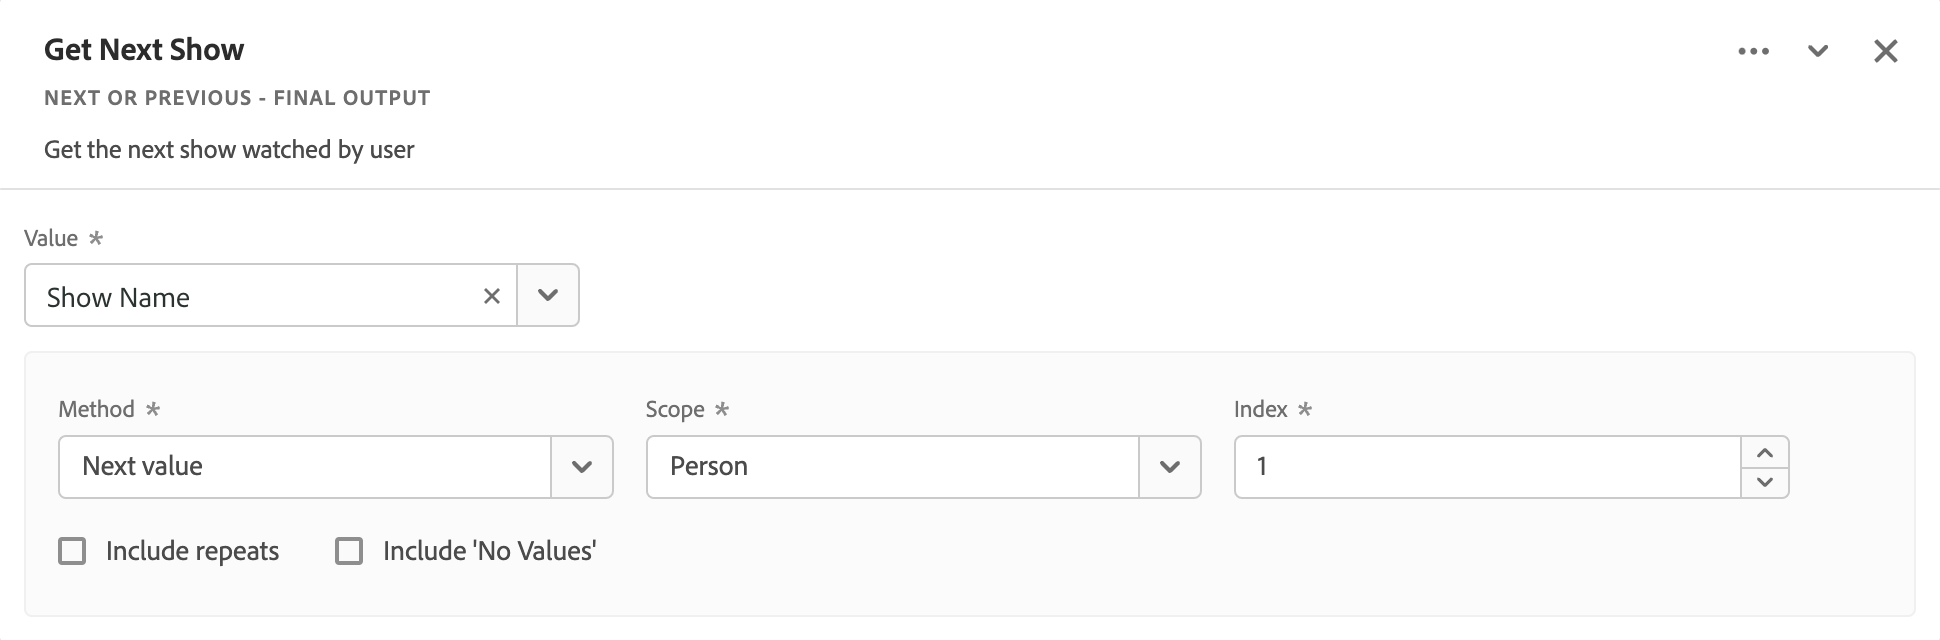
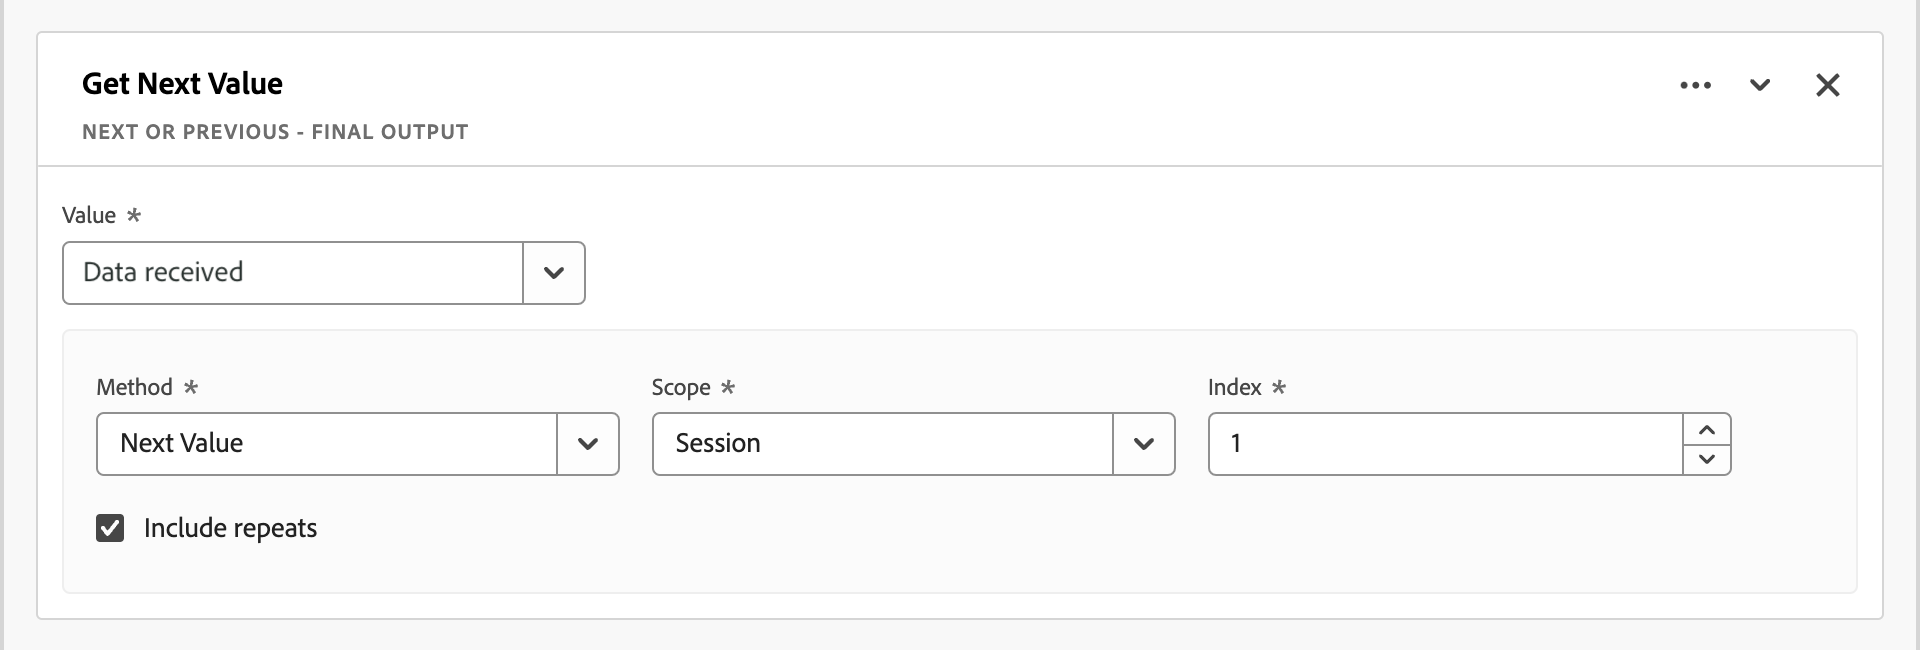
Updates

diff --git a/help/data-views/derived-fields/derived-fields.md b/help/data-views/derived-fields/derived-fields.md
@@ -898,118 +898,11 @@ Takes a field as input and resolves the next or previous value for that field wi
 
 {style="table-layout:auto"}
 
-## Use case 1 {#prevornext-uc1}
+## Use case {#prevornext-uc1}
 
-You would like to understand what the most common **next** show someone did watch and populate that into a new component called `Next Show Name`. You currently collect `Show Name` in a dimension.
+You would like to understand what the **next** or **previous** value is of the data that you receive, taken into account repeat values.
 
-### Data before {#prevornext-uc1-databefore}
-
-| CustomerID | Show Name | Watch Event |
-|---|---|---:|
-| ABC123 | The Book of Boba Fett | 1 |
-| ABC123 |  Obi-Wan | 1 |
-| ABC123 | DuckTales | 1 |
-| ABC456 |  DuckTales | 1 |
-| ABC456 | Hawkeye | 1 |
-| ABC456 |  The Book of Boba Fett | 1 |
-| ABC789 | Hawkeye | 1 |
-| ABC789 | Wandavision | 1 |
-| ABC789 | Loki | 1 |
-
-{style="table-layout:auto"}
-
-| Next Show | Events |
-|---|---|
-| Loki | 1 |
-| Hawkeye | 1 |
-| The Book of Boba Fett | 1 |
-| Obi-Wan | 1 |
-| DuckTales | 1 |
-| WandaVision | 1 |
-
-{style="table-layout:auto"}
-
-### Derived field {#prevnext-uc1-derivedfield}
-
-You define a `Next Show Name` derived field. You use the [!UICONTROL NEXT OR PREVIOUS] function to define a rule that selects the [!UICONTROL Show Name] field, select [!UICONTROL Next value] as [!UICONTROL Method], [!UICONTROL Person] as Scope and sets value of [!UICONTROL Index] to `1`.
-
-![Screenshot of the Merge Fields rule](assets/prevnext-next.png)
-
-### Data after {#prevnext-uc1-dataafter}
-
-| CustomerID | Show Name | Watch Event | Next Show Name |
-|---|---|--:|---|
-| ABC123  |  The Book of Boba Fett |   1  |  Obi-Wan |
-| ABC123 |   Obi-Wan  |  1  |  DuckTales |
-| ABC123  |  DuckTales  |  1    | |
-| ABC456 |   DuckTales  |  1   | Hawkeye|
-| ABC456 |   Hawkeye  |  1  |  The Book of Boba Fett |
-| ABC456  |  The Book of Boba Fett  |  1    | |
-| ABC789  |  Hawkeye  |  1 |  WandaVision |
-| ABC789 |   Wandavision  |  1  |  Loki |
-| ABC789  |  Loki  |  1    | |
-
-{style="table-layout:auto"}
-
-## Use case 2 {#prevornext-uc2}
-
-You would like to understand what the most common **previous** show someone did watch and populate that into a new component called `Previous Show Name`. You currently collect `Show Name` in a dimension.
-
-### Data before {#prevornext-uc2-databefore}
-
-| CustomerID | Show Name | Watch Event |
-|---|---|---:|
-| ABC123 | The Book of Boba Fett | 1 |
-| ABC123 |  Obi-Wan | 1 |
-| ABC123 | DuckTales | 1 |
-| ABC456 |  DuckTales | 1 |
-| ABC456 | Hawkeye | 1 |
-| ABC456 |  The Book of Boba Fett | 1 |
-| ABC789 | Hawkeye | 1 |
-| ABC789 | Wandavision | 1 |
-| ABC789 | Loki | 1 |
-
-{style="table-layout:auto"}
-
-| Previous Show | Events |
-|---|---|
-| Hawkeye | 2 |
-| The Book of Boba Fett | 1 |
-| Obi-Wan | 1 |
-| DuckTales | 1 |
-| WandaVision | 1 |
-
-{style="table-layout:auto"}
-
-### Derived field {#prevnext-uc2-derivedfield}
-
-You define a `Previous Show Name` derived field. You use the [!UICONTROL NEXT OR PREVIOUS] function to define a rule that selects the [!UICONTROL Show Name] field, selects [!UICONTROL Previous value] as [!UICONTROL Method], [!UICONTROL Person] as [!UICONTROL Scope], and sets the value of [!UICONTROL Index] to `1`.
-
-![Screenshot of the Merge Fields rule](assets/prevnext-prev.png)
-
-### Data after {#prevnext-uc2-dataafter}
-
-
-| CustomerID | Show Name | Watch Event | Previous Show |
-|---|---|--:|---|
-|ABC123   | The Book of Boba Fett  |  1    | |
-| ABC123   | Obi-Wan  |  1   | The Book of Boba Fett |
-| ABC123 |   DuckTales  |  1   | Obi-Wan |
-| ABC456  |  DuckTales |   1    | |
-| ABC456  |  Hawkeye  |  1  |  DuckTales |
-| ABC456   | The Book of Boba Fett |   1  |  Hawkeye |
-| ABC789 |   Hawkeye  |  1    | |
-| ABC789  |  WandaVision |   1 |   Hawkeye |
-| ABC789  |  Loki |   1  |  WandaVision |
-
-{style="table-layout:auto"}
-
-
-## More information {#prevnext-moreinfo}
-
-You can only select fields that belong to the Visit or Event table.
-
-Include repeats determine how to handle repeating values for previous or next. See following example tables.
+### Data {#prevornext-uc1-databefore}
 
 **Example 1 - Handling include repeats**
 
@@ -1034,14 +927,30 @@ Include repeats determine how to handle repeating values for previous or next. S
 | home | home | search | *No value* | *No value* |
 | home | home | search | home | *No value* |
 | home | search | search | home | *No value* |
-| search | search | product details | home | home |
-| | search | search | search | search |
+| search | search | product detail | home | home |
+| &nbsp; | &nbsp; | &nbsp; | &nbsp; | &nbsp; |
 | search | search | product detail | search | home |
 | search | product detail | product detail | search | home |
 | product detail | *No value* | *No value* | search | search |
-| | *No value* | *No value* | product detail | product detail | 
+| &nbsp; | &nbsp; | &nbsp; | &nbsp; | &nbsp; |
 
 {style="table-layout:auto"}
+
+### Derived field {#prevnext-uc1-derivedfield}
+
+You define a `Next Value` or `Previous value` derived field. You use the [!UICONTROL NEXT OR PREVIOUS] function to define a rule that selects the [!UICONTROL Data received] field, select [!UICONTROL Next value] or [!UICONTROL Previous value] as [!UICONTROL Method], [!UICONTROL Session] as Scope and sets the value of [!UICONTROL Index] to `1`.
+
+![Screenshot of the Merge Fields rule](assets/prevnext-next.png)
+
+## More information {#prevnext-moreinfo}
+
+You can only select fields that belong to the Visit or Event table.
+
+[!UICONTROL Include repeats] determines how to handle repeating values for the [!UICONTROL NEXT OR PREVIOUS] function. 
+
+- Include repeats looks and the next or previous values. If [!UICONTROL Include Repeats] is selected, it will ignore any sequential repeats of next or previous values from the current hit.
+
+- Rows with no (blank) values for a selected field will not have next or previous values returned as part of the [!UICONTROL NEXT OR PREVIOUS] function output.
 
 +++
 
